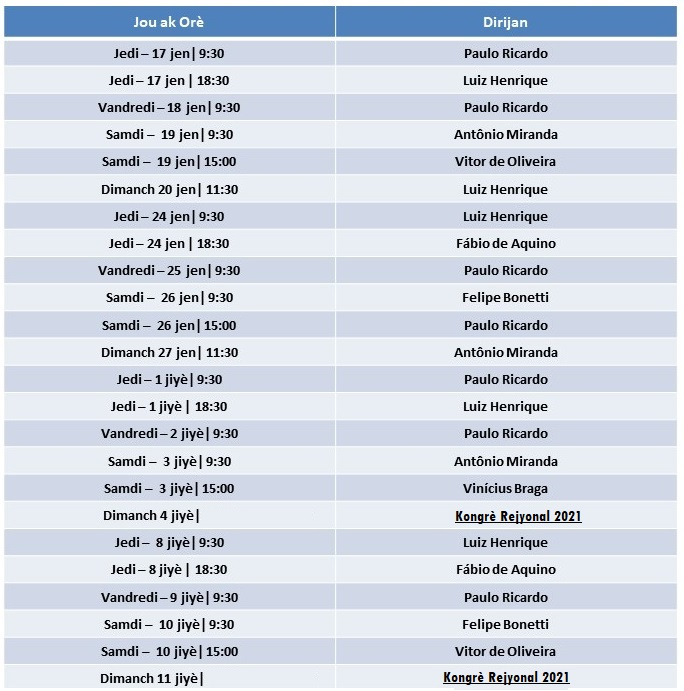
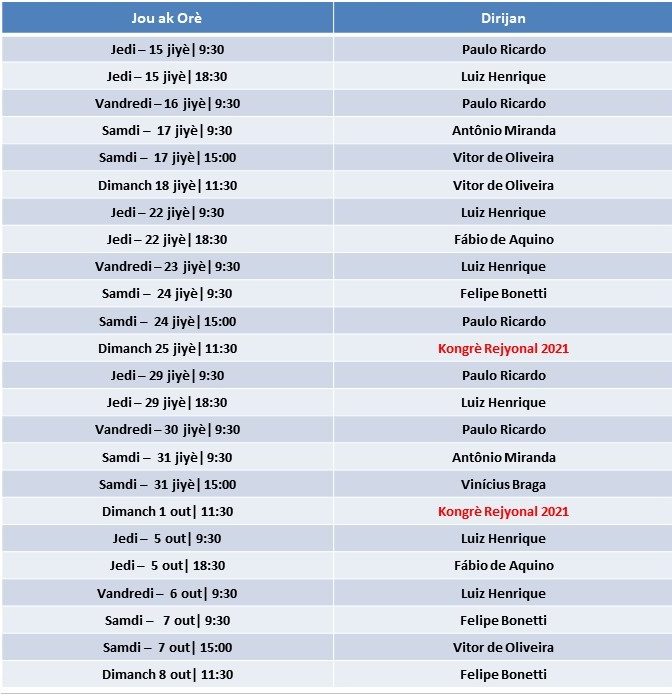
Add files

Changed region(s): [[0.0, 0.0, 1.0, 1.0], [0.0, 0.2127, 0.0312, 0.2431]]

diff --git a/index.html b/index.html
@@ -31,7 +31,6 @@
         <article class="post">
             <header>
                 <h3 class="post_title">Pwogram Reyinyon</h3>
-                <img src="Pwograma Reyinyon Jen-3.png" alt="programa do mes" class="imagem">
                 <img src="Pwogram Jiyè-1.png" alt="programa do mes" class="imagem">
                 <img src="Pwogram Jiyè-2.png" alt="programa do mes" class="imagem">
             </header>
@@ -40,7 +39,7 @@
         <article class="post">
             <header>
                 <H3 class="post_title">Pwogram Diskou</H3>
-                <img src="Pwogram Diskou-1.png" alt="programa do mes" class="imagem">
+                <img src="Diskou jiyè-1.png" alt="programa do mes" class="imagem">
                 <!--<iframe src="Diskou.pdf" alt="pdf programa do mes" class="post_pdf"></iframe>-->
             </header>
         </article>
@@ -62,10 +61,10 @@
         <article class="post">
             <header>
                 <H3 class="post_title">Anons pou mwa</H3>
-                <img src="Anons Jen-1.png" alt="anuncios do mes" class="imagem">
-                <img src="Anons-1.png" alt="anuncios do mes" class="imagem">
-                <img src="Anuncios vacina-1.png" alt="anuncios do mes" class="imagem">
-                <img src="23 junho-1.png" alt="anuncios do mes" class="imagem">
+                <img src="Anuncios CR.png" alt="anuncios do mes" class="imagem">
+                <img src="S-147.png" alt="anuncios do mes" class="imagem">
+                <img src="LGPD.png" alt="anuncios do mes" class="imagem">
+                <img src="anous 12.png" alt="anuncios do mes" class="imagem">
 
                 <!--<iframe src="Anons.pdf" alt="pdf programa do mes" class="post_pdf"></iframe>-->
             </header>
